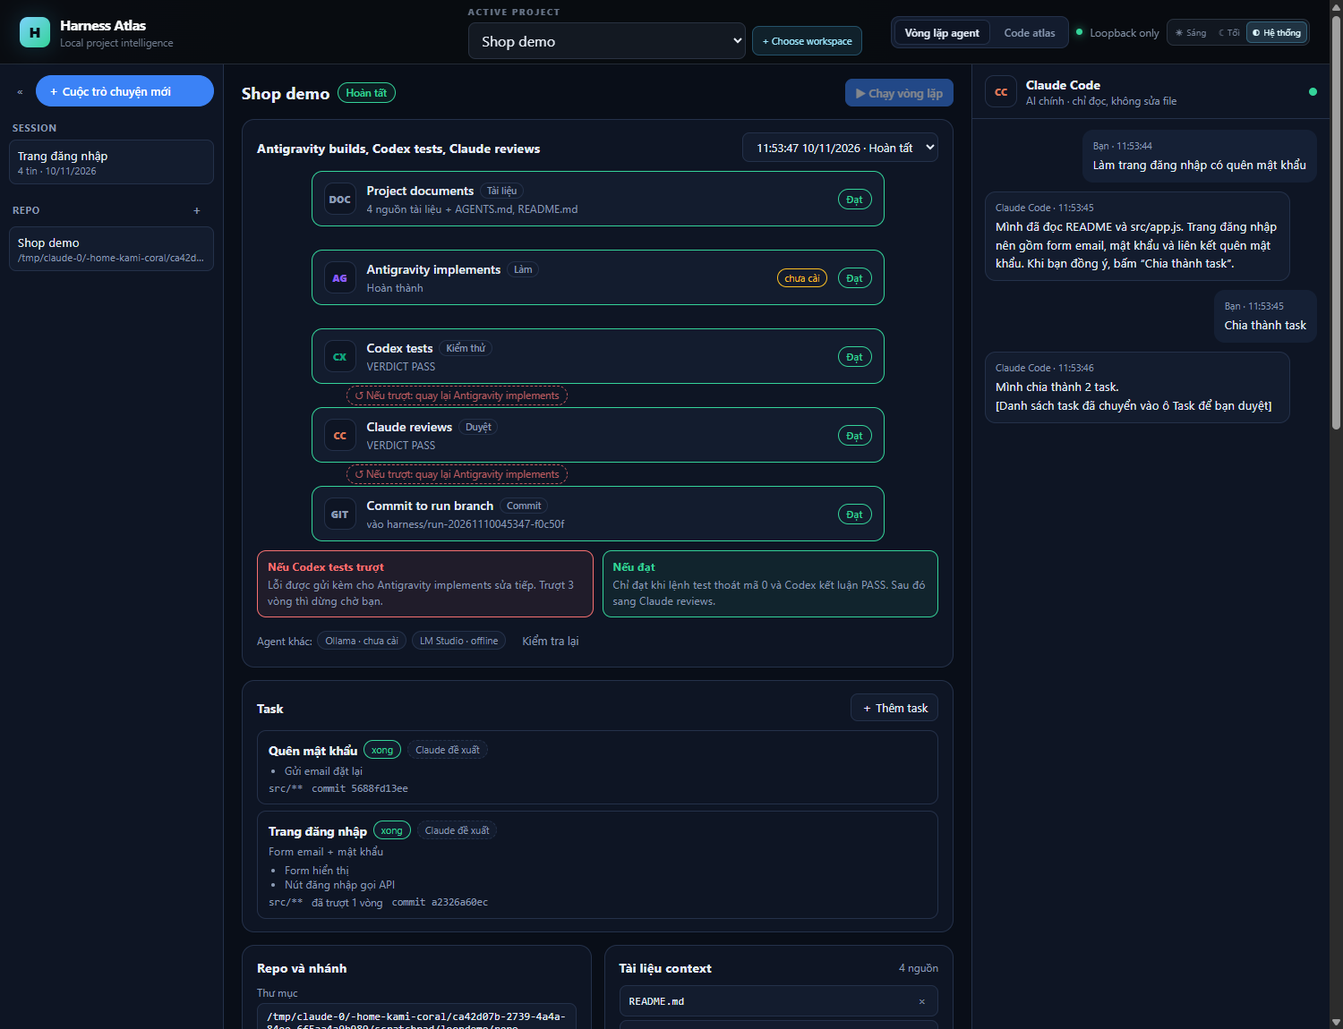
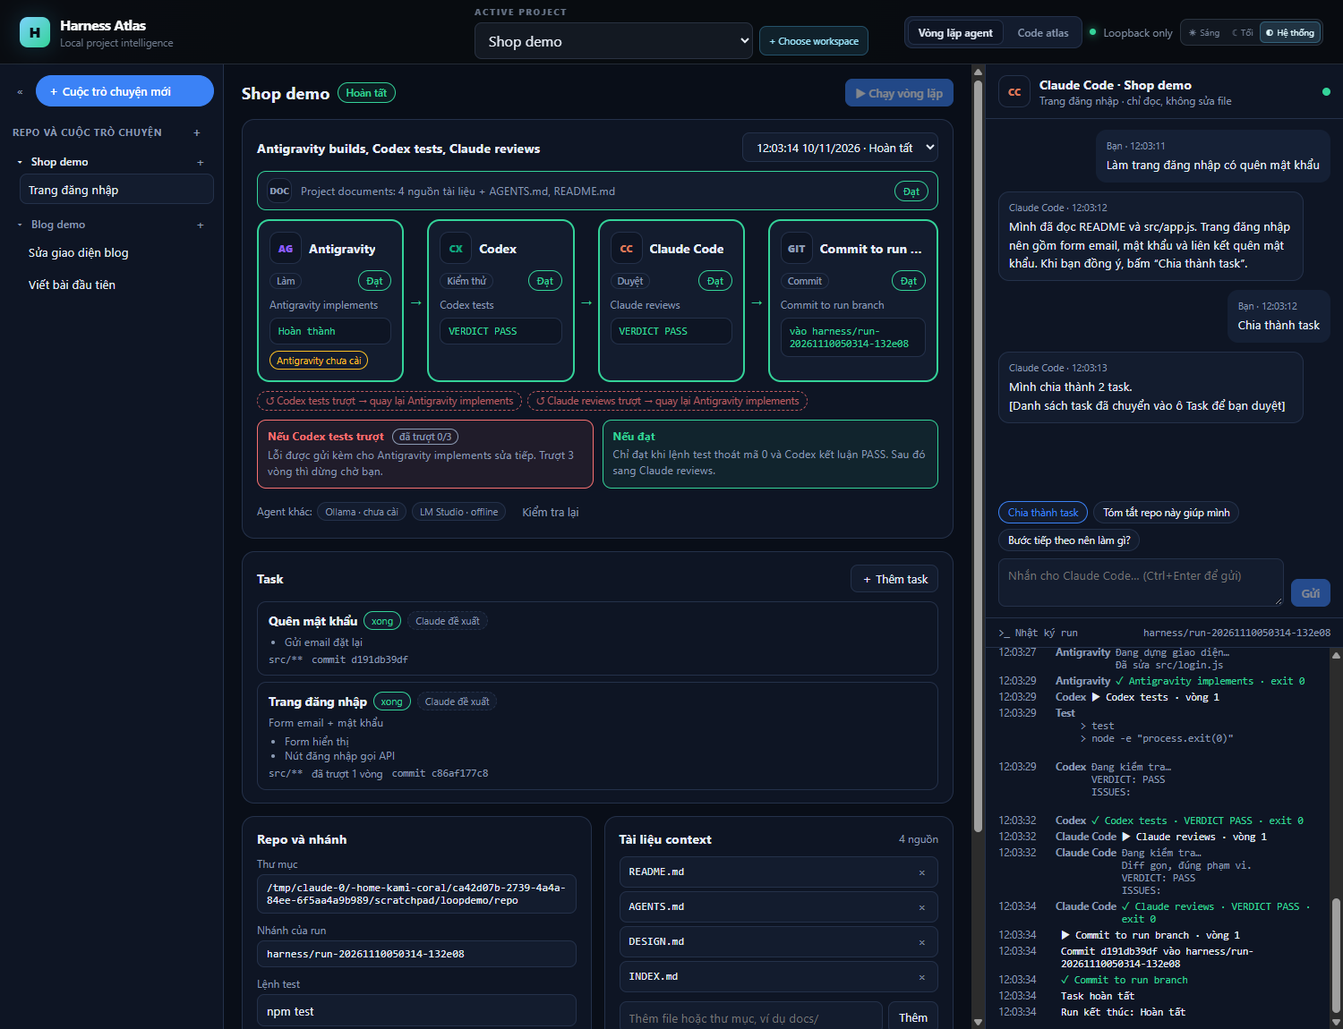
feat: group conversations under their repository; agent cards side by side
- The left sidebar lists each repository with its own conversations under
  it, collapsible, with a "+" per repository, like the Claude and Codex
  apps. Picking a conversation in another repository switches to that
  repository first, so its chat keeps the right repo context.
- The chat header names the repository and conversation.
- Agent stages show as side-by-side cards (agent, role, status, a result
  box), with the context step as a strip above and the loop-back rules as
  markers below; the fail and pass rule cards light up when that branch
  happens and show rounds used. Cards stack on narrower screens.

Checked in headless Chrome with fake agents and two demo repositories.
npm test: 82/82.

diff --git a/src/ui/LoopWorkspace.tsx b/src/ui/LoopWorkspace.tsx
@@ -66,18 +66,36 @@ export const LoopWorkspace: React.FC<Props> = ({ workspaces, workspaceId, onSele
   const [projectFiles, setProjectFiles] = useState<string[]>([]);
   const [newSource, setNewSource] = useState("");
   const [collapsed, setCollapsed] = useState(false);
+  const [repoSessions, setRepoSessions] = useState<Record<string, HarnessSession[]>>({});
+  const [closedRepos, setClosedRepos] = useState<string[]>([]);
+  const pendingSession = useRef<string | null>(null);
   const chatAbort = useRef<AbortController | null>(null);
   const logRef = useRef<HTMLDivElement | null>(null);
   const messagesRef = useRef<HTMLDivElement | null>(null);
 
   const session = sessions.find((s) => s.id === sessionId);
 
+  const fetchSessions = useCallback(async (id: string): Promise<HarnessSession[]> => {
+    const data = await (await fetch(`/api/sessions?workspace=${encodeURIComponent(id)}`)).json();
+    return (data.sessions ?? []).slice().sort((a: HarnessSession, b: HarnessSession) => b.updatedAt.localeCompare(a.updatedAt));
+  }, []);
+
   const loadSessions = useCallback(async (keep?: string) => {
-    const data = await (await fetch(`/api/sessions${q}`)).json();
-    const list: HarnessSession[] = (data.sessions ?? []).slice().sort((a: HarnessSession, b: HarnessSession) => b.updatedAt.localeCompare(a.updatedAt));
+    const list = await fetchSessions(workspaceId);
     setSessions(list);
-    setSessionId((current) => keep ?? (list.some((s) => s.id === current) ? current : list[0]?.id ?? ""));
-  }, [q]);
+    setRepoSessions((current) => ({ ...current, [workspaceId]: list }));
+    const wanted = keep ?? pendingSession.current ?? undefined;
+    pendingSession.current = null;
+    setSessionId((current) => wanted && list.some((s) => s.id === wanted) ? wanted : list.some((s) => s.id === current) ? current : list[0]?.id ?? "");
+  }, [workspaceId, fetchSessions]);
+
+  // Every repository's conversations, for the grouped sidebar.
+  useEffect(() => {
+    let alive = true;
+    Promise.all(workspaces.filter((w) => w.status === "ACTIVE").map(async (w) => [w.id, await fetchSessions(w.id).catch(() => [])] as const))
+      .then((entries) => { if (alive) setRepoSessions((current) => ({ ...current, ...Object.fromEntries(entries) })); });
+    return () => { alive = false; };
+  }, [workspaces, fetchSessions]);
 
   const loadState = useCallback(async () => {
     const response = await fetch(`/api/loop/state${q}`);
@@ -142,12 +160,21 @@ export const LoopWorkspace: React.FC<Props> = ({ workspaces, workspaceId, onSele
 
   // ---- actions ----
 
-  const createSession = async () => {
-    const title = window.prompt("Tên session", "Session mới");
+  const selectSession = (repoId: string, id: string) => {
+    if (repoId === workspaceId) return setSessionId(id);
+    pendingSession.current = id;
+    onSelectWorkspace(repoId);
+  };
+
+  const createSession = async (repoId = workspaceId) => {
+    const repo = workspaces.find((w) => w.id === repoId);
+    const title = window.prompt(`Tên cuộc trò chuyện mới trong ${repo?.name ?? "repo"}`, "Cuộc trò chuyện mới");
     if (title === null) return;
     try {
-      const data = await postJson(`/api/sessions${q}`, { title, mode: "auto" });
-      await loadSessions(data.session.id);
+      const data = await postJson(`/api/sessions?workspace=${encodeURIComponent(repoId)}`, { title, mode: "auto" });
+      setClosedRepos((current) => current.filter((id) => id !== repoId));
+      if (repoId === workspaceId) await loadSessions(data.session.id);
+      else selectSession(repoId, data.session.id);
     } catch (e: any) { onError(e.message); }
   };
 
@@ -323,18 +350,10 @@ export const LoopWorkspace: React.FC<Props> = ({ workspaces, workspaceId, onSele
       <aside className="lp2-side">
         <div className="lp2-side-top">
           <button className="lp2-ghost lp2-icon" onClick={() => setCollapsed(!collapsed)} aria-label={collapsed ? "Mở rộng thanh bên" : "Thu gọn thanh bên"} title={collapsed ? "Mở rộng" : "Thu gọn"}>{collapsed ? "»" : "«"}</button>
-          {!collapsed && <button className="lp2-new" onClick={createSession}>＋ Cuộc trò chuyện mới</button>}
+          {!collapsed && <button className="lp2-new" onClick={() => createSession()} title={`Trong ${workspace?.name ?? "repo đang chọn"}`}>＋ Cuộc trò chuyện mới</button>}
         </div>
         {!collapsed && <>
-          <div className="lp2-label">Session</div>
-          <div className="lp2-list">
-            {sessions.length ? sessions.map((s) => (
-              <button key={s.id} className={`lp2-item ${s.id === sessionId ? "active" : ""}`} onClick={() => setSessionId(s.id)} title={s.title}>
-                <span className="lp2-item-title">{s.title}</span><span className="lp2-item-meta">{s.messageCount} tin · {new Date(s.updatedAt).toLocaleDateString()}</span>
-              </button>
-            )) : <p className="lp2-empty">Chưa có session.</p>}
-          </div>
-          <div className="lp2-label lp2-label-row"><span>Repo</span><button className="lp2-ghost lp2-icon" onClick={() => setImportMode(importMode ? "" : "path")} aria-label="Import repo" title="Import repo">＋</button></div>
+          <div className="lp2-label lp2-label-row"><span>Repo và cuộc trò chuyện</span><button className="lp2-ghost lp2-icon" onClick={() => setImportMode(importMode ? "" : "path")} aria-label="Thêm repo" title="Thêm repo">＋</button></div>
           {importMode && (
             <div className="lp2-import">
               <div className="lp2-seg" role="tablist">
@@ -345,12 +364,33 @@ export const LoopWorkspace: React.FC<Props> = ({ workspaces, workspaceId, onSele
               <button className="lp2-primary" onClick={importRepo} disabled={importBusy}>{importBusy ? "Đang import…" : importMode === "url" ? "Clone và thêm" : "Thêm repo"}</button>
             </div>
           )}
-          <div className="lp2-list">
-            {workspaces.map((w) => (
-              <button key={w.id} className={`lp2-item ${w.id === workspaceId ? "active" : ""}`} onClick={() => onSelectWorkspace(w.id)} disabled={w.status !== "ACTIVE"} title={w.path}>
-                <span className="lp2-item-title">{w.name}</span><span className="lp2-item-meta">{w.status === "ACTIVE" ? w.path : "không truy cập được"}</span>
-              </button>
-            ))}
+          <div className="lp2-repos">
+            {workspaces.map((w) => {
+              const open = !closedRepos.includes(w.id);
+              const list = w.id === workspaceId ? sessions : repoSessions[w.id] ?? [];
+              const available = w.status === "ACTIVE";
+              return (
+                <div key={w.id} className={`lp2-repo ${w.id === workspaceId ? "current" : ""}`}>
+                  <div className="lp2-repo-head">
+                    <button className="lp2-repo-toggle" onClick={() => setClosedRepos((current) => open ? [...current, w.id] : current.filter((id) => id !== w.id))} aria-expanded={open} title={w.path}>
+                      <span className="lp2-chevron" aria-hidden="true">{open ? "▾" : "▸"}</span>
+                      <span className="lp2-repo-name">{w.name}</span>
+                      {!available && <span className="lp2-repo-off">không truy cập được</span>}
+                    </button>
+                    {available && <button className="lp2-ghost lp2-icon" onClick={() => createSession(w.id)} aria-label={`Cuộc trò chuyện mới trong ${w.name}`} title="Cuộc trò chuyện mới">＋</button>}
+                  </div>
+                  {open && available && (
+                    <div className="lp2-list">
+                      {list.length ? list.map((s) => (
+                        <button key={s.id} className={`lp2-item ${w.id === workspaceId && s.id === sessionId ? "active" : ""}`} onClick={() => selectSession(w.id, s.id)} title={s.title}>
+                          <span className="lp2-item-title">{s.title}</span>
+                        </button>
+                      )) : <button className="lp2-item lp2-item-empty" onClick={() => createSession(w.id)}>＋ Bắt đầu cuộc trò chuyện</button>}
+                    </div>
+                  )}
+                </div>
+              );
+            })}
           </div>
         </>}
       </aside>
@@ -390,53 +430,83 @@ export const LoopWorkspace: React.FC<Props> = ({ workspaces, workspaceId, onSele
             )}
           </div>
           {currentTask && <p className="lp2-current">Task đang làm: <strong>{currentTask.title}</strong></p>}
-          <ol className="lp2-flow">
-            {pipeline?.stages.map((stage, index) => {
-              const result = run?.stageResults[stage.id];
-              const status = result?.status ?? "waiting";
-              const back = stage.onFail ? pipeline.stages.find((s) => s.id === stage.onFail) : undefined;
-              const isBackward = back ? pipeline.stages.indexOf(back) < index : false;
-              const agent = agentById(stage.agent);
-              const open = openStage === stage.id;
-              const looping = loopBack === stage.id && run?.status === "running";
-              return (
-                <li key={stage.id} className="lp2-flow-item">
-                  <button className={`lp2-node s-${status} ${run?.currentStageId === stage.id && run.status !== "completed" ? "current" : ""}`} onClick={() => setOpenStage(open ? "" : stage.id)} aria-expanded={open}>
-                    <span className={`lp2-glyph g-${stage.agent ?? stage.kind}`}>{stage.agent ? AGENT_GLYPH[stage.agent] ?? stage.agent.slice(0, 2).toUpperCase() : KIND_GLYPH[stage.kind]}</span>
-                    <span className="lp2-node-body">
-                      <span className="lp2-node-title">{stageTitle(stage)} <span className="lp2-role">{stage.role ? ROLE_LABEL[stage.role] ?? stage.role : KIND_LABEL[stage.kind]}</span></span>
-                      <span className="lp2-node-detail">{nodeDetail(stage, result)}</span>
-                    </span>
-                    {agent && agent.status !== "available" && <span className="lp2-warn-chip" title={agent.detail}>{AVAILABILITY[agent.status] ?? agent.status}</span>}
-                    <span className={`lp2-pill p-${status}`}>{STAGE_STATUS[status] ?? status}{result && result.round > 1 ? ` · v${result.round}` : ""}</span>
-                  </button>
-                  {open && (
-                    <div className="lp2-node-open">
-                      {result ? <>
-                        <div className="lp2-mini">Vòng {result.round}{result.verdict ? ` · VERDICT ${result.verdict}` : ""}{result.exitCode !== undefined && result.exitCode !== null ? ` · exit ${result.exitCode}` : ""} · {time(result.at)}</div>
-                        {result.issues && <pre className="lp2-pre fail">{result.issues}</pre>}
-                        {result.outputTail && <pre className="lp2-pre">{result.outputTail}</pre>}
-                      </> : <div className="lp2-mini">Bước này chưa chạy trong run đang xem.</div>}
-                      {agent && <div className="lp2-mini">{agent.name}: {agent.detail}</div>}
-                    </div>
-                  )}
-                  {index < pipeline.stages.length - 1 && (
-                    <div className="lp2-connector">
-                      <span className={`lp2-vline ${status === "passed" ? "done" : ""}`} aria-hidden="true" />
-                      {back && isBackward && <span className={`lp2-loopback ${looping ? "active" : ""}`}>↺ Nếu trượt: quay lại {stageTitle(back)}</span>}
-                    </div>
-                  )}
-                  {index === pipeline.stages.length - 1 && back && isBackward && <div className="lp2-connector"><span className={`lp2-loopback ${looping ? "active" : ""}`}>↺ Nếu trả lại: quay lại {stageTitle(back)}</span></div>}
-                </li>
-              );
-            })}
-          </ol>
-          {gate && pipeline && (
-            <div className="lp2-rules">
-              <div className="lp2-rule fail"><strong>Nếu {stageTitle(gate)} trượt</strong><span>Lỗi được gửi kèm cho {stageTitle(pipeline.stages.find((s) => s.id === gate.onFail) ?? gate)} sửa tiếp. Trượt {pipeline.maxRounds} vòng thì dừng chờ bạn.</span></div>
-              <div className="lp2-rule pass"><strong>Nếu đạt</strong><span>Chỉ đạt khi lệnh test thoát mã 0 và {AGENT_LABEL[gate.agent ?? ""] ?? gate.agent} kết luận PASS. Sau đó sang {stageTitle(pipeline.stages.find((s) => s.id === gate.onPass) ?? gate)}.</span></div>
-            </div>
-          )}
+          {(() => {
+            if (!pipeline) return null;
+            const ctx = pipeline.stages.find((s) => s.kind === "context");
+            const ctxResult = ctx ? run?.stageResults[ctx.id] : undefined;
+            const cards = pipeline.stages.filter((s) => s.kind !== "context");
+            const backEdges = pipeline.stages
+              .map((stage, index) => ({ stage, index, back: stage.onFail ? pipeline.stages.find((s) => s.id === stage.onFail) : undefined }))
+              .filter((e) => e.back && pipeline.stages.indexOf(e.back) < e.index);
+            const open = pipeline.stages.find((s) => s.id === openStage);
+            const openResult = open ? run?.stageResults[open.id] : undefined;
+            const openAgent = agentById(open?.agent);
+            const gateResult = gate ? run?.stageResults[gate.id] : undefined;
+            const failActive = Boolean(loopBack) && run?.status === "running";
+            const passActive = gateResult?.status === "passed" && ["running", "waiting-human", "paused"].includes(run?.status ?? "");
+            return <>
+              {ctx && (
+                <button className={`lp2-ctx s-${ctxResult?.status ?? "waiting"}`} onClick={() => setOpenStage(openStage === ctx.id ? "" : ctx.id)} aria-expanded={openStage === ctx.id}>
+                  <span className="lp2-glyph g-context">DOC</span>
+                  <span>{stageTitle(ctx)}: {nodeDetail(ctx, ctxResult)}</span>
+                  <span className={`lp2-pill p-${ctxResult?.status ?? "waiting"}`}>{STAGE_STATUS[ctxResult?.status ?? "waiting"]}</span>
+                </button>
+              )}
+              <ol className="lp2-cards">
+                {cards.map((stage, i) => {
+                  const result = run?.stageResults[stage.id];
+                  const status = result?.status ?? "waiting";
+                  const agent = agentById(stage.agent);
+                  const current = run?.currentStageId === stage.id && run.status !== "completed";
+                  return (
+                    <li key={stage.id} className="lp2-card-item">
+                      <button className={`lp2-acard s-${status} ${current ? "current" : ""} ${openStage === stage.id ? "selected" : ""}`} onClick={() => setOpenStage(openStage === stage.id ? "" : stage.id)} aria-expanded={openStage === stage.id}>
+                        <span className="lp2-acard-top">
+                          <span className={`lp2-glyph g-${stage.agent ?? stage.kind}`}>{stage.agent ? AGENT_GLYPH[stage.agent] ?? stage.agent.slice(0, 2).toUpperCase() : KIND_GLYPH[stage.kind]}</span>
+                          <strong className="lp2-acard-title">{stage.agent ? AGENT_LABEL[stage.agent] ?? stage.agent : stageTitle(stage)}</strong>
+                        </span>
+                        <span className="lp2-acard-meta">
+                          <span className="lp2-role">{stage.role ? ROLE_LABEL[stage.role] ?? stage.role : KIND_LABEL[stage.kind]}</span>
+                          <span className={`lp2-pill p-${status}`}>{STAGE_STATUS[status] ?? status}{result && result.round > 1 ? ` · v${result.round}` : ""}</span>
+                        </span>
+                        <span className="lp2-acard-label">{stageTitle(stage)}</span>
+                        <span className="lp2-acard-box lp2-mono">{nodeDetail(stage, result)}</span>
+                        {agent && agent.status !== "available" && <span className="lp2-warn-chip" title={agent.detail}>{agent.name} {AVAILABILITY[agent.status] ?? agent.status}</span>}
+                      </button>
+                      {i < cards.length - 1 && <span className={`lp2-arrow ${status === "passed" ? "done" : ""}`} aria-hidden="true">→</span>}
+                    </li>
+                  );
+                })}
+              </ol>
+              {backEdges.length > 0 && (
+                <div className="lp2-backs">
+                  {backEdges.map(({ stage, back }) => (
+                    <span key={stage.id} className={`lp2-loopback ${loopBack === stage.id && run?.status === "running" ? "active" : ""}`}>↺ {stageTitle(stage)} {stage.kind === "human" ? "bị trả lại" : "trượt"} → quay lại {stageTitle(back as Stage)}</span>
+                  ))}
+                </div>
+              )}
+              {open && (
+                <div className="lp2-node-open">
+                  <div className="lp2-mini"><strong>{stageTitle(open)}</strong>{openResult ? ` · vòng ${openResult.round}${openResult.verdict ? ` · VERDICT ${openResult.verdict}` : ""}${openResult.exitCode !== undefined && openResult.exitCode !== null ? ` · exit ${openResult.exitCode}` : ""} · ${time(openResult.at)}` : " · chưa chạy trong run đang xem"}</div>
+                  {openResult?.issues && <pre className="lp2-pre fail">{openResult.issues}</pre>}
+                  {openResult?.outputTail && <pre className="lp2-pre">{openResult.outputTail}</pre>}
+                  {openAgent && <div className="lp2-mini">{openAgent.name}: {openAgent.detail}</div>}
+                </div>
+              )}
+              {gate && (
+                <div className="lp2-rules">
+                  <div className={`lp2-rule fail ${failActive ? "active" : ""}`}>
+                    <strong>Nếu {stageTitle(gate)} trượt <span className="lp2-count">đã trượt {currentTask?.failedRounds ?? 0}/{pipeline.maxRounds}</span></strong>
+                    <span>Lỗi được gửi kèm cho {stageTitle(pipeline.stages.find((s) => s.id === gate.onFail) ?? gate)} sửa tiếp. Trượt {pipeline.maxRounds} vòng thì dừng chờ bạn.</span>
+                  </div>
+                  <div className={`lp2-rule pass ${passActive ? "active" : ""}`}>
+                    <strong>Nếu đạt</strong>
+                    <span>Chỉ đạt khi lệnh test thoát mã 0 và {AGENT_LABEL[gate.agent ?? ""] ?? gate.agent} kết luận PASS. Sau đó sang {stageTitle(pipeline.stages.find((s) => s.id === gate.onPass) ?? gate)}.</span>
+                  </div>
+                </div>
+              )}
+            </>;
+          })()}
           {otherAgents.length > 0 && (
             <div className="lp2-others">
               <span>Agent khác:</span>
@@ -525,7 +595,7 @@ export const LoopWorkspace: React.FC<Props> = ({ workspaces, workspaceId, onSele
         <section className="lp2-chat">
           <header className="lp2-chat-head">
             <span className="lp2-glyph g-claude">CC</span>
-            <div><strong>Claude Code</strong><span className="lp2-hint">AI chính · chỉ đọc, không sửa file</span></div>
+            <div><strong>Claude Code · {workspace?.name ?? ""}</strong><span className="lp2-hint">{session ? `${session.title} · ` : ""}chỉ đọc, không sửa file</span></div>
             <span className={`lp2-dot ${agentById("claude")?.status === "available" ? "ok" : "bad"}`} title={agentById("claude")?.detail} />
           </header>
           <div className="lp2-messages" ref={messagesRef} aria-live="polite">

diff --git a/src/dashboard.ts b/src/dashboard.ts
@@ -1020,6 +1020,16 @@ export function getDashboardHtml(): string {
     .lp2-grid .lp2-item.active { background:var(--lp-raised); border-color:var(--lp-line); }
     .lp2-item-title { font-size:.84rem; max-width:100%; overflow:hidden; text-overflow:ellipsis; white-space:nowrap; }
     .lp2-item-meta { font-size:.7rem; color:var(--lp-muted); max-width:100%; overflow:hidden; text-overflow:ellipsis; white-space:nowrap; }
+    .lp2-repos { display:flex; flex-direction:column; gap:8px; }
+    .lp2-repo-head { display:flex; align-items:center; gap:2px; }
+    .lp2-grid .lp2-repo-toggle { flex:1; min-width:0; display:flex; align-items:center; gap:6px; text-align:left; background:transparent; border-color:transparent; padding:5px 6px; color:var(--lp-muted); font-size:.76rem; font-weight:600; }
+    .lp2-grid .lp2-repo-toggle:hover { color:var(--lp-ink); border-color:transparent; }
+    .lp2-repo.current .lp2-repo-toggle { color:var(--lp-ink); }
+    .lp2-chevron { width:12px; flex:none; font-size:.7rem; }
+    .lp2-repo-name { overflow:hidden; text-overflow:ellipsis; white-space:nowrap; }
+    .lp2-repo-off { font-size:.66rem; font-weight:400; color:var(--lp-fail); white-space:nowrap; }
+    .lp2-repo .lp2-list { padding-left:12px; }
+    .lp2-grid .lp2-item-empty { color:var(--lp-muted); font-size:.78rem; }
     .lp2-import { display:flex; flex-direction:column; gap:6px; padding:0 2px; }
     .lp2-seg { display:flex; gap:4px; }
     .lp2-seg button { flex:1; }
@@ -1069,6 +1079,33 @@ export function getDashboardHtml(): string {
     .lp2-vline.done { background:var(--lp-pass); }
     .lp2-loopback { font-size:.72rem; color:var(--lp-fail); border:1px dashed var(--lp-fail); border-radius:999px; padding:2px 9px; opacity:.75; }
     .lp2-loopback.active { opacity:1; background:var(--lp-fail-bg); border-style:solid; font-weight:600; }
+    .lp2-grid .lp2-ctx { display:flex; align-items:center; gap:10px; text-align:left; padding:7px 10px; border-radius:10px; font-size:.78rem; color:var(--lp-muted); }
+    .lp2-grid .lp2-ctx .lp2-glyph { width:28px; height:28px; font-size:.6rem; }
+    .lp2-grid .lp2-ctx > span:nth-child(2) { flex:1; min-width:0; }
+    .lp2-grid .lp2-ctx.s-passed { border-color:var(--lp-pass); }
+    .lp2-cards { list-style:none; display:flex; align-items:stretch; gap:0; }
+    .lp2-card-item { flex:1; min-width:0; display:flex; align-items:center; }
+    .lp2-grid .lp2-acard { flex:1; min-width:0; align-self:stretch; display:flex; flex-direction:column; gap:7px; text-align:left; padding:12px; border-radius:14px; border-width:2px; background:var(--lp-raised); }
+    .lp2-grid .lp2-acard.s-running { border-color:var(--lp-run); background:var(--lp-run-bg); box-shadow:0 0 0 4px var(--lp-run-bg); }
+    .lp2-grid .lp2-acard.s-passed { border-color:var(--lp-pass); }
+    .lp2-grid .lp2-acard.s-failed { border-color:var(--lp-fail); background:var(--lp-fail-bg); box-shadow:0 0 0 4px var(--lp-fail-bg); }
+    .lp2-grid .lp2-acard.selected { outline:2px solid var(--lp-accent); outline-offset:2px; }
+    .lp2-acard-top { display:flex; align-items:center; gap:8px; }
+    .lp2-acard-title { font-size:.88rem; min-width:0; overflow:hidden; text-overflow:ellipsis; white-space:nowrap; }
+    .lp2-acard-meta { display:flex; justify-content:space-between; align-items:center; gap:6px; flex-wrap:wrap; }
+    .lp2-acard-label { font-size:.74rem; color:var(--lp-muted); }
+    .lp2-acard-box { font-size:.72rem; padding:7px 9px; border-radius:9px; background:var(--lp-panel); border:1px solid var(--lp-line); overflow-wrap:anywhere; min-height:2.6em; }
+    .lp2-acard.s-failed .lp2-acard-box { color:var(--lp-fail); }
+    .lp2-acard.s-passed .lp2-acard-box { color:var(--lp-pass); }
+    .lp2-acard .lp2-warn-chip { align-self:flex-start; }
+    .lp2-arrow { flex:none; padding:0 6px; color:var(--lp-muted); font-size:1rem; }
+    .lp2-arrow.done { color:var(--lp-pass); }
+    .lp2-backs { display:flex; flex-wrap:wrap; gap:6px; }
+    .lp2-node-open { margin:0; padding:10px 12px; border:1px solid var(--lp-line); border-radius:10px; background:var(--lp-raised); }
+    .lp2-rule.active { box-shadow:0 0 0 2px currentColor; }
+    .lp2-rule.fail.active { color:var(--lp-fail); } .lp2-rule.pass.active { color:var(--lp-pass); }
+    .lp2-count { font-size:.66rem; font-weight:600; margin-left:6px; padding:1px 7px; border-radius:999px; border:1px solid currentColor; }
+    @media (max-width: 1350px) { .lp2-cards { flex-direction:column; } .lp2-card-item { flex-direction:column; align-items:stretch; } .lp2-arrow { align-self:center; transform:rotate(90deg); padding:4px 0; } }
     .lp2-rules { display:grid; grid-template-columns:1fr 1fr; gap:10px; }
     .lp2-rule { display:flex; flex-direction:column; gap:3px; font-size:.78rem; border-radius:10px; padding:9px 11px; border:1px solid var(--lp-line); }
     .lp2-rule span { color:var(--lp-muted); line-height:1.45; }
